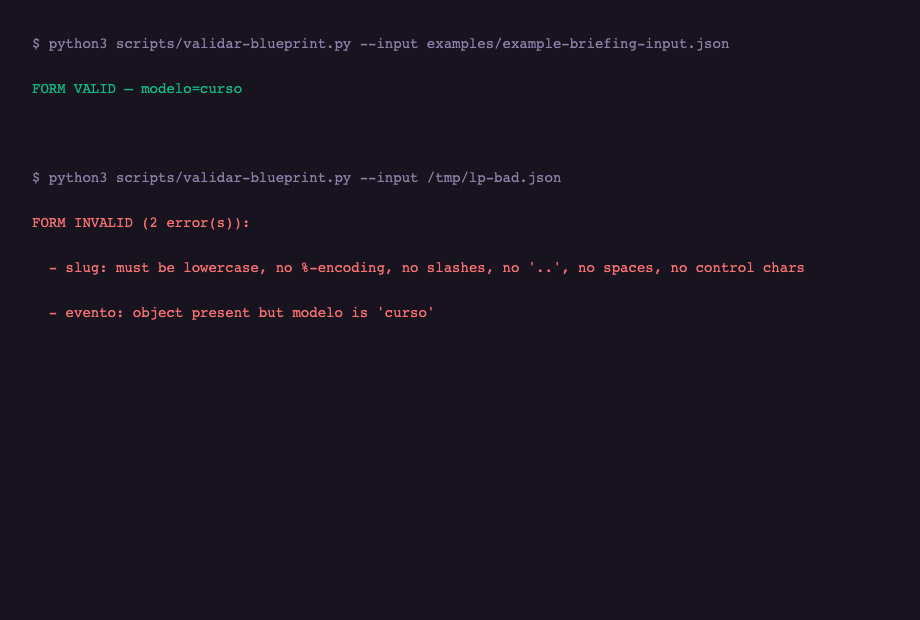
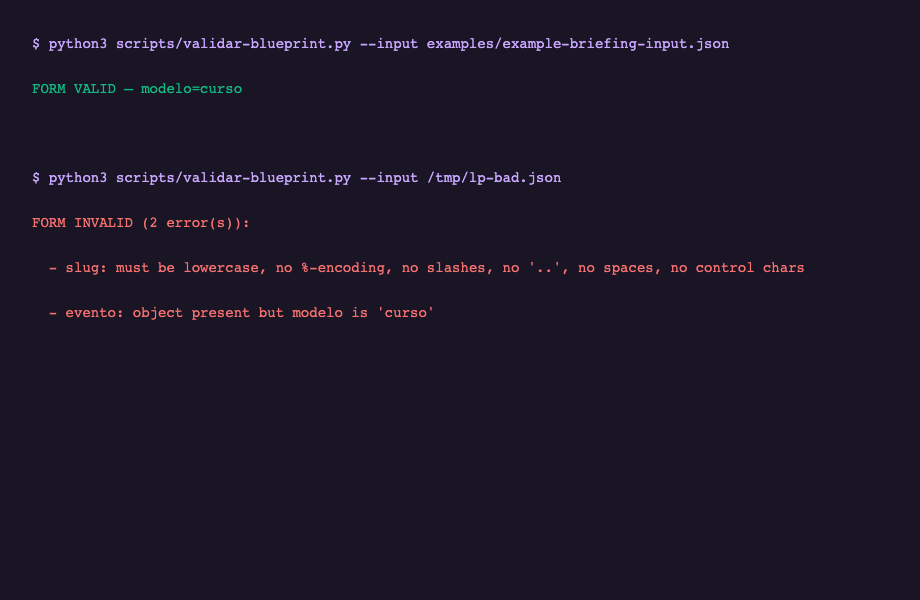
style: CF Gauss visual standard — capas com o motivo das ondas, terminais em ink/lilás, logomarca nos READMEs

diff --git a/README.md b/README.md
@@ -2,6 +2,10 @@
   <img src="assets/cover.png" alt="My_LP_Makes_Neil_Proud — the landing-page engine" width="100%">
 </p>
 
+<p align="center">
+  <img src="assets/logo.png" alt="CF Gauss" width="72">
+</p>
+
 <h1 align="center">My_LP_Makes_Neil_Proud</h1>
 
 <p align="center">
